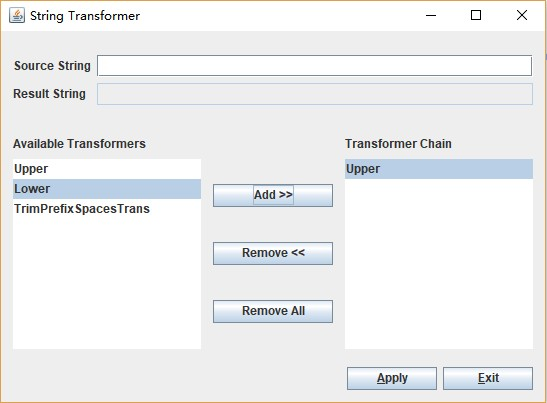
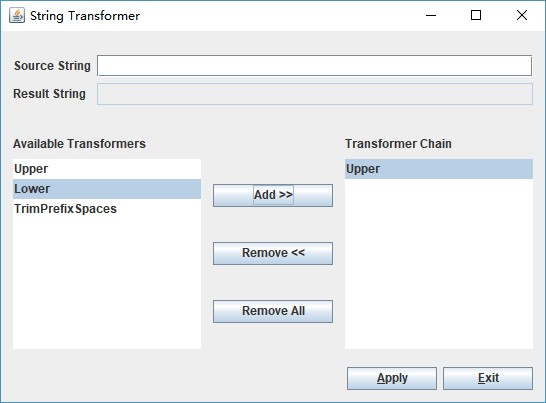
TDD String Transformer Dummy

diff --git a/TDD/TDD Coding Practice String Transformer/Code/Java/src/fayelab/tdd/stringtransformer/dummy/original/Trans.java b/TDD/TDD Coding Practice String Transformer/Code/Java/src/fayelab/tdd/stringtransformer/dummy/original/Trans.java
@@ -4,7 +4,7 @@ public class Trans
 {
     static final String UPPER_TRANS = "Upper";
     static final String LOWER_TRANS = "Lower";
-    static final String TRIM_PREFIX_SPACES_TRANS = "TrimPrefixSpacesTrans";
+    static final String TRIM_PREFIX_SPACES_TRANS = "TrimPrefixSpaces";
 
     static final int NONE_SELECTED_INDEX = -1;
     static final String NONE_SELECTED_TRANS = null;

diff --git a/TDD/TDD Coding Practice String Transformer/Code/Java/src/fayelab/tdd/stringtransformer/dummy/original/Validator.java b/TDD/TDD Coding Practice String Transformer/Code/Java/src/fayelab/tdd/stringtransformer/dummy/original/Validator.java
@@ -40,7 +40,7 @@ class ValidatingResult
         NONE,
         AVAIL_TRANS_NOT_SPECIFIED,
         ADD_ALREADY_EXISTED_IN_CHAIN_TRANS
-    };
+    }
 
     private boolean succeeded;
     private FailedReason failedReason;
